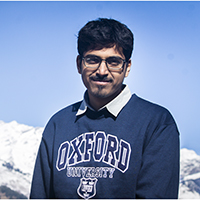
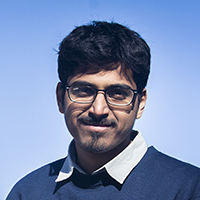
Updated
-Web,config which caused website to crash
- Profile picture (Shreyas)
- Added Jesus and Shreyas to the Mote team

diff --git a/index.html b/index.html
@@ -402,8 +402,31 @@
                             </p>
                         </div>
                     </div><!--End Row-->
+                    <div class="row">
+                        
+                        <div class="col-lg-6 col-md-12 col-sm-12 margin-top feature">
+                            <a href="#/">
+                                <img src="images/profiles/profile.jpg" title="Jesus Islas" alt="Jesus Islas" onmouseover="this.src = 'images/profiles/profile.jpg'" onmouseout="this.src = 'images/profiles/profile.jpg'" class="img-circle hideme" />
+                            </a>
+                            <p class="center">
+                                Jesus Islas<br />
+                                <span class="profile-info">?</span>
+                            </p>
+                        </div>
 
-                </div>
+                        <div class="col-lg-6 col-md-12 col-sm-12 margin-top feature">
+                            <a href="#/">
+                                <img src="images/profiles/Shreyas.png" title="Shreyas Gaonkar" alt="Ryan Ohneiser" onmouseover="this.src = 'images/profiles/Shreyas.jpg'" onmouseout="this.src = 'images/profiles/Shreyas.png'" class="img-circle hideme" />
+                            </a>
+                            <p class="center">
+                                Shreyas Gaonkar<br />
+                                <span class="profile-info">Lead Web Developer</span>
+                            </p>
+                        </div>
+                        
+                        
+                    </div><!--End Row-->
+                </div><!-- End Team -->
                 <!-- end para blue -->
                 <!-- Contact Us -->
 
